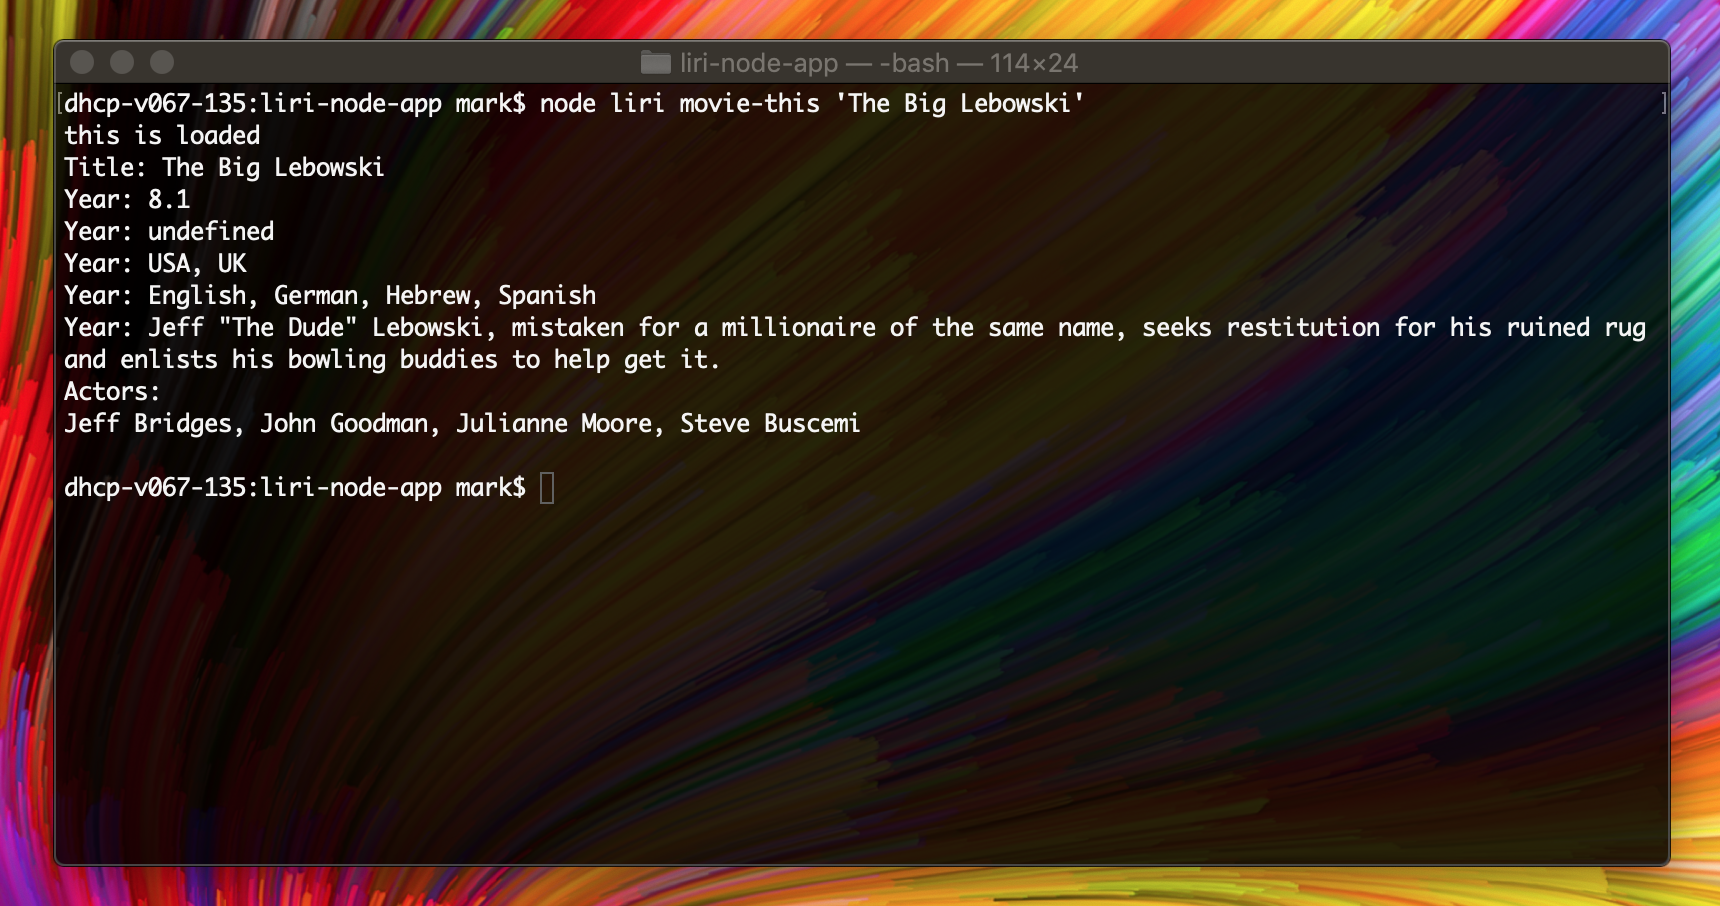
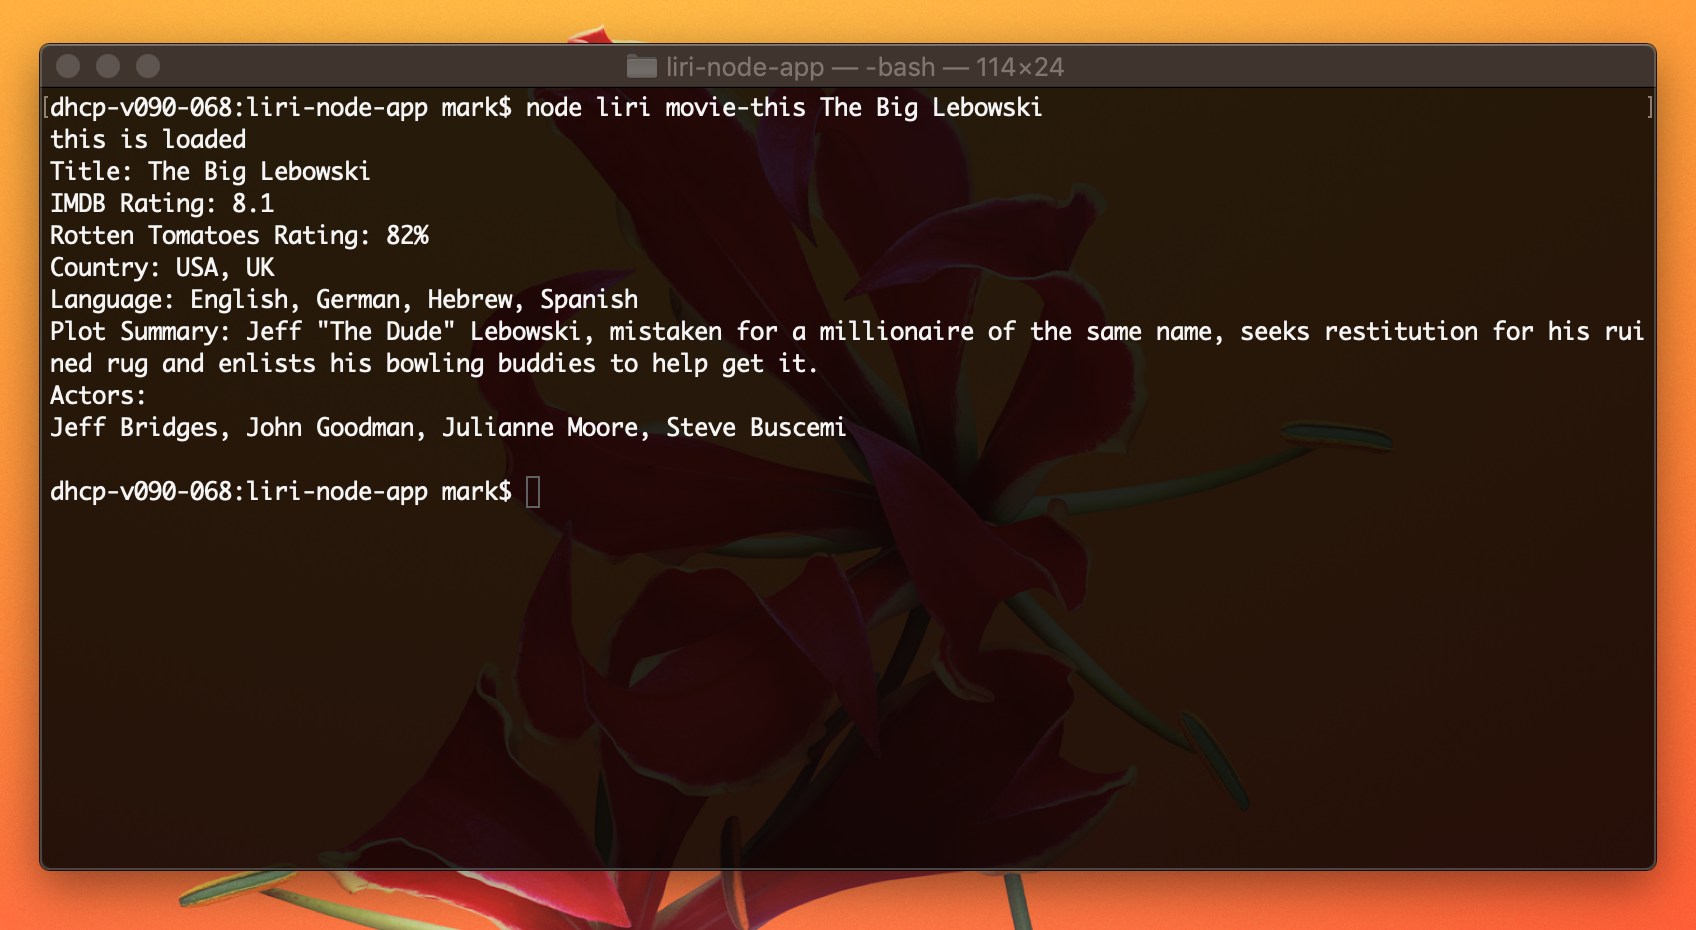
fixed movie-this preview and removed the need for quoted queries

diff --git a/liri.js b/liri.js
@@ -8,7 +8,7 @@ var moment = require('moment');
 var fs = require('fs');
 
 var command = process.argv[2];
-var input = process.argv[3];
+var input = process.argv.slice(3).join(" ").toLowerCase();
 
 function concertThis(input) {
     var queryString = `https://rest.bandsintown.com/artists/${input}/events?app_id=codingbootcamp`;
@@ -59,11 +59,11 @@ function movieThis(input) {
         .then(function (response) {
             var data = response.data;
             console.log(`Title: ${data.Title}`);
-            console.log(`Year: ${data.imdbRating}`);
-            console.log(`Year: ${data.Ratings.source}`);
-            console.log(`Year: ${data.Country}`);
-            console.log(`Year: ${data.Language}`);
-            console.log(`Year: ${data.Plot}`);
+            console.log(`IMDB Rating: ${data.imdbRating}`);
+            console.log(`Rotten Tomatoes Rating: ${data.Ratings[1].Value}`);
+            console.log(`Country: ${data.Country}`);
+            console.log(`Language: ${data.Language}`);
+            console.log(`Plot Summary: ${data.Plot}`);
             var actors = data.Actors;
             console.log(`Actors:`);
             console.log(actors);

diff --git a/README.md b/README.md
@@ -20,8 +20,8 @@ There are two main components of the concert-this command:
 
 A. the command which is initiated by simply typing concert-this into your command line (don't forget the hyphen!)
 
-B. the request parameter, in order to ensure that concert-this accepts you entire request please make sure to wrap your request in either single double quotes --
-For Example: If you wanted to search for concerts featuring the Red Hot Chili Peppers you would type --> 'The Red Hot Chili Peppers' 
+B. request parameter  
+Example: If you wanted to search for concerts featuring the Red Hot Chili Peppers you would type --> 'The Red Hot Chili Peppers' 
 
 And you can see there is a list of recent and future concerts featuring the Red Hot Chili Peppers
 
@@ -36,8 +36,9 @@ There are two main components of the spotify-this-song command:
 
 A. the command which is initiated by simply typing spotify-this-song into your command line (don't forget the hyphens!)
 
-B. the request parameter, in order to ensure that spotify-this-song accepts you entire request please make sure to wrap your request in either single double quotes --
-For Example: If you wanted to search for the song Full Clip --> 'Full Clip' 
+B. the request parameter
+
+Example: If you wanted to search for the song Full Clip --> 'Full Clip' 
 
 And you can see there is a list of published songs named Full Clip and the relevant publication information such as the alubumn the song was published on, the performer, and the year it was released.
 
@@ -51,8 +52,8 @@ There are two main components of the movie-this command:
 
 A. the command which is initiated by simply typing movie-this into your command line (don't forget the hyphen!)
 
-B. the request parameter, in order to ensure that movie-this accepts you entire request please make sure to wrap your request in either single double quotes --
-For Example: If you wanted to search for the song Full Clip --> 'The Big Lebowski' 
+B. the request parameter 
+Example: If you wanted to search for the song Full Clip --> 'The Big Lebowski' 
 
 And you can see there is a list of published songs named The Big Lebowski and the relevant publication information such as the alubumn the song was published on, the performer, and the year it was released.
 
